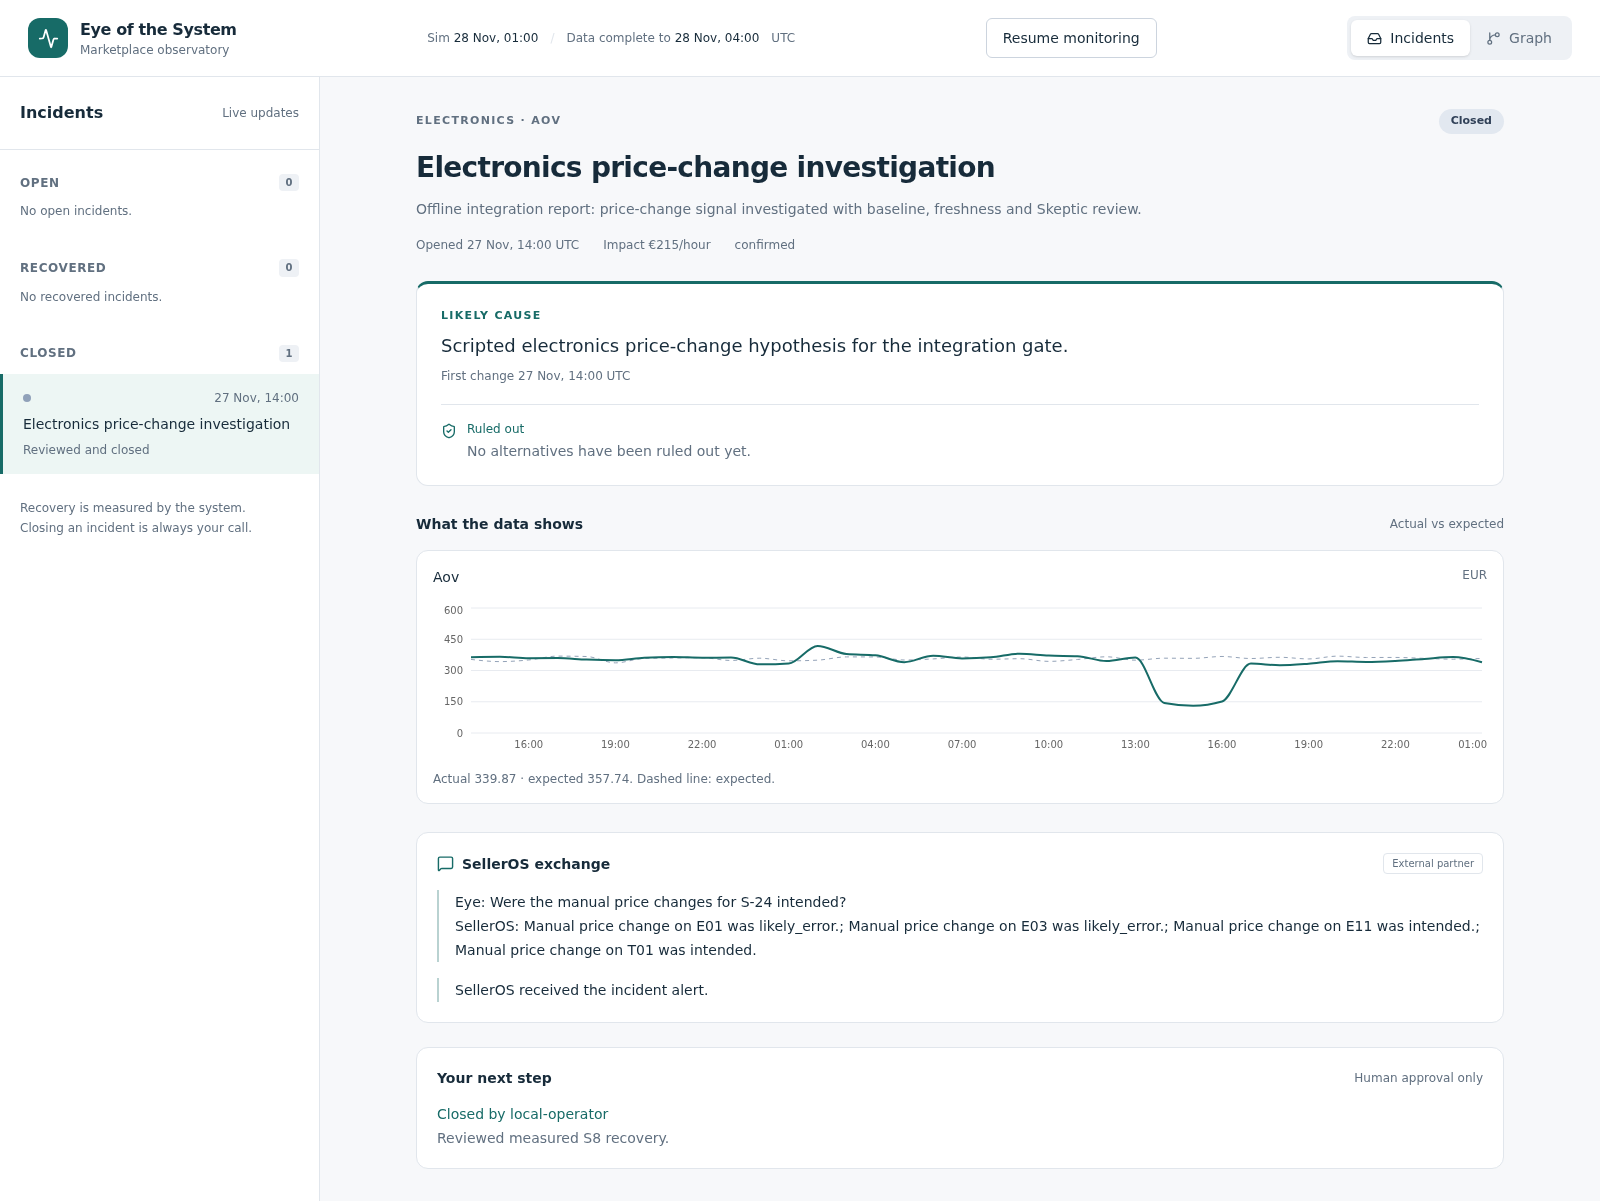
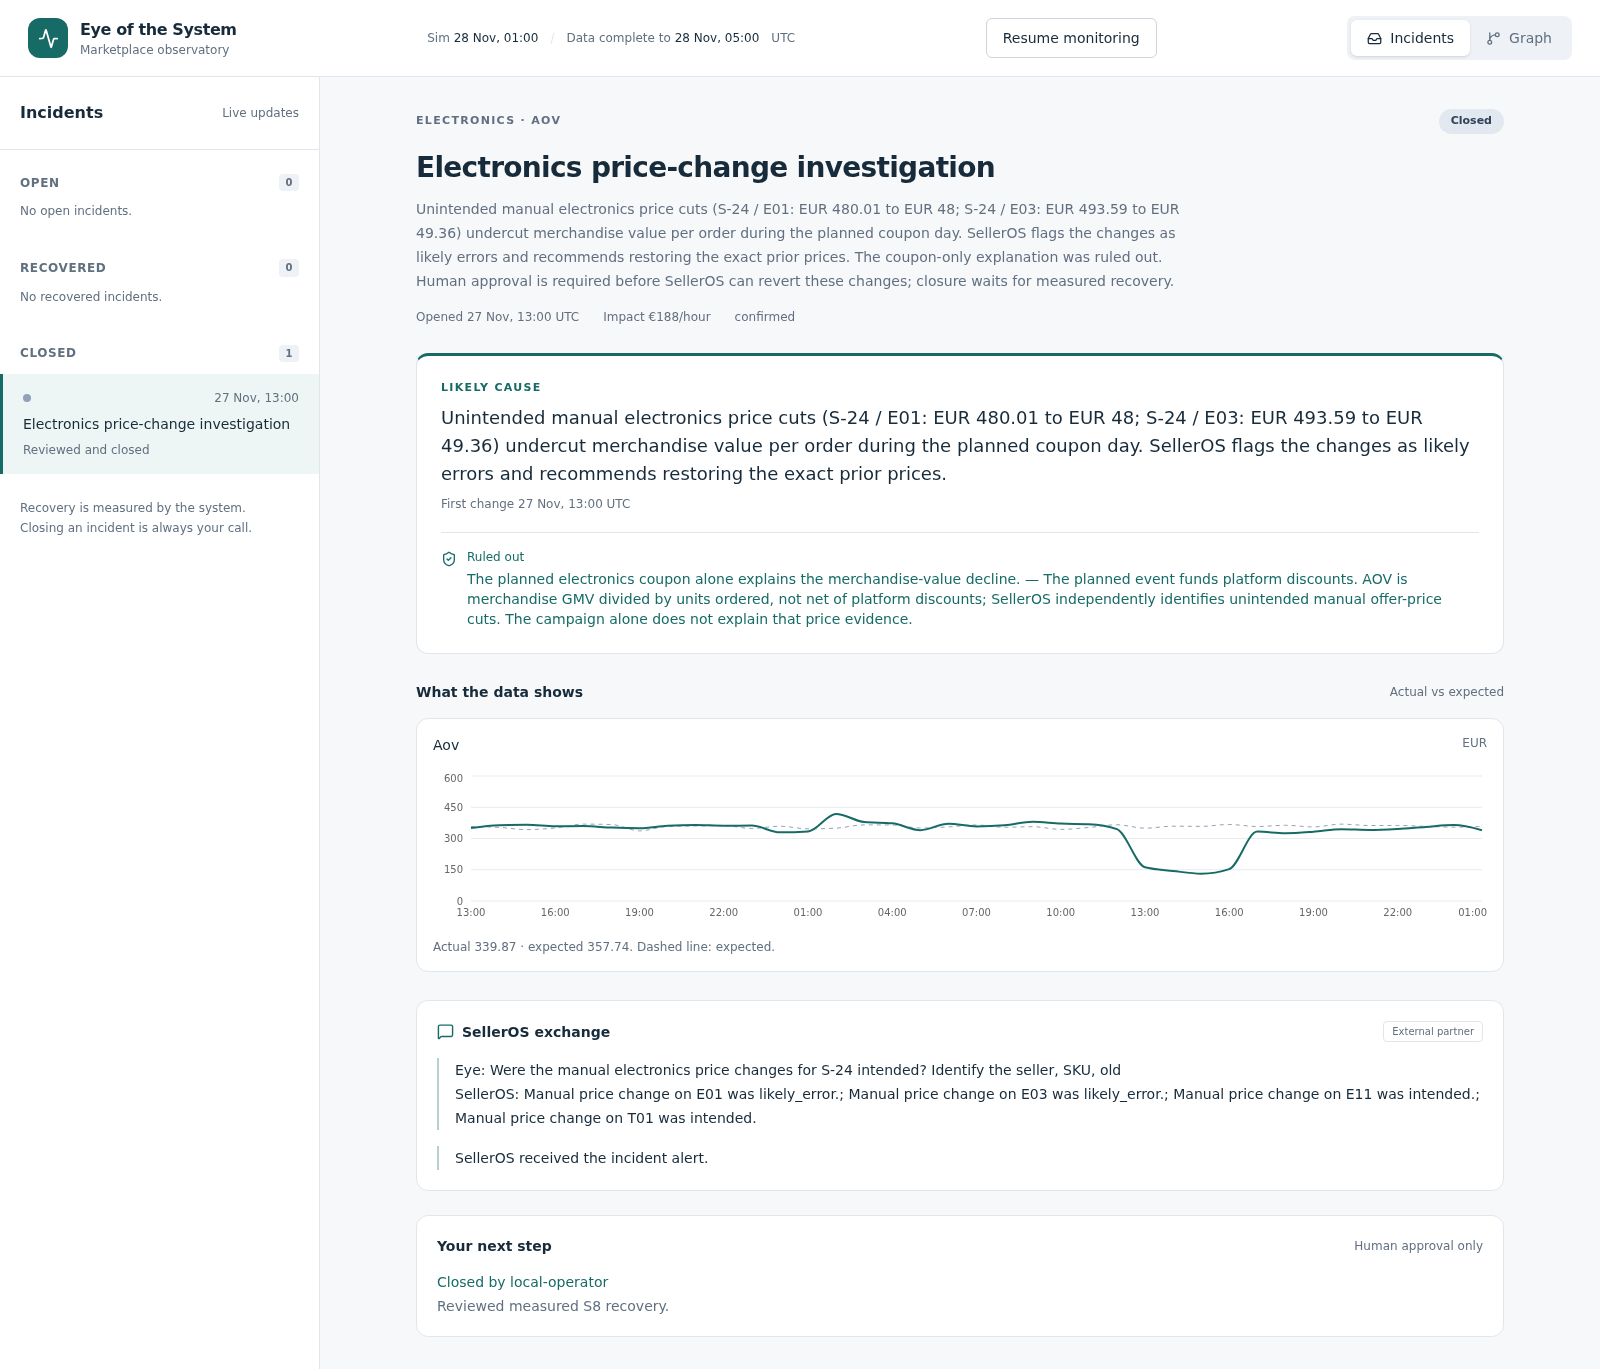
docs: show measured S8 story in offline incident screenshot

diff --git a/README.md b/README.md
@@ -2,7 +2,7 @@
 
 ![Eye incident workspace showing the S8 investigation, measured recovery and human closure](docs/images/incident-workspace.png)
 
-The React incident workspace after an offline, scripted S8 run: investigation report, measured evidence, SellerOS exchange and human closure.
+The React incident workspace after an offline S8 run with a scripted model: seller price typo, coupon ruled out, measured recovery and human closure after approved SellerOS reverts.
 
 Eye of the System monitors a marketplace's metric graph, ranks unusual changes by business impact, investigates explanations with evidence, and publishes incidents for human review. Deterministic warehouse tools compute the numbers; agents decide what to investigate and how to explain it. The included continuous simulator supplies S8: a seller's price typo during a planned electronics coupon day.
 
